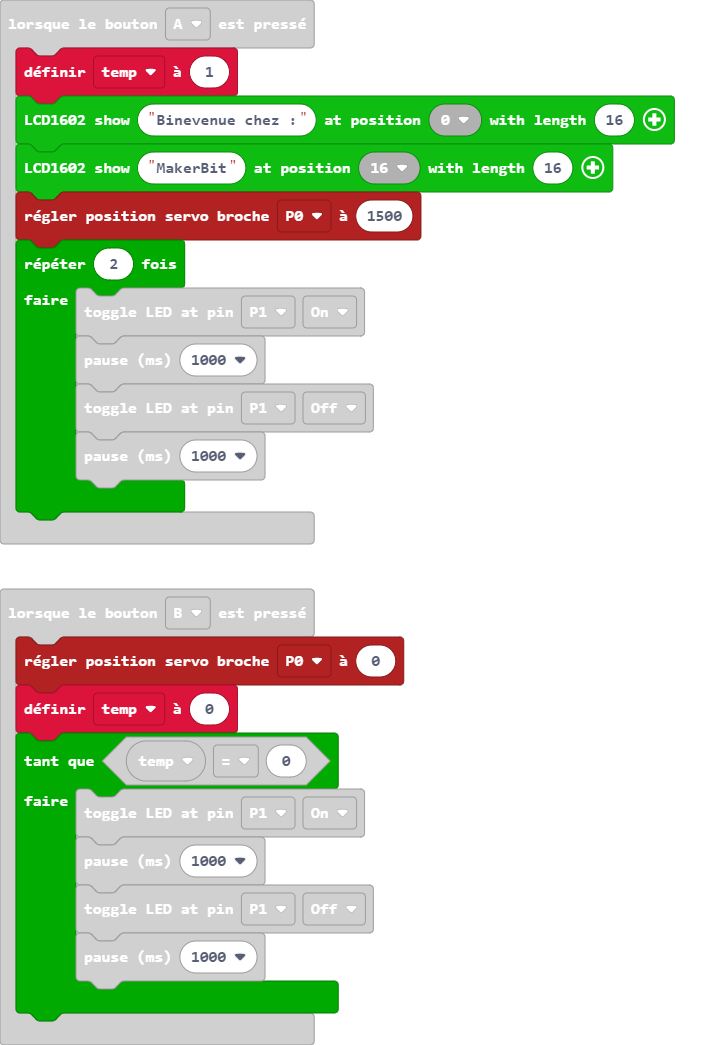
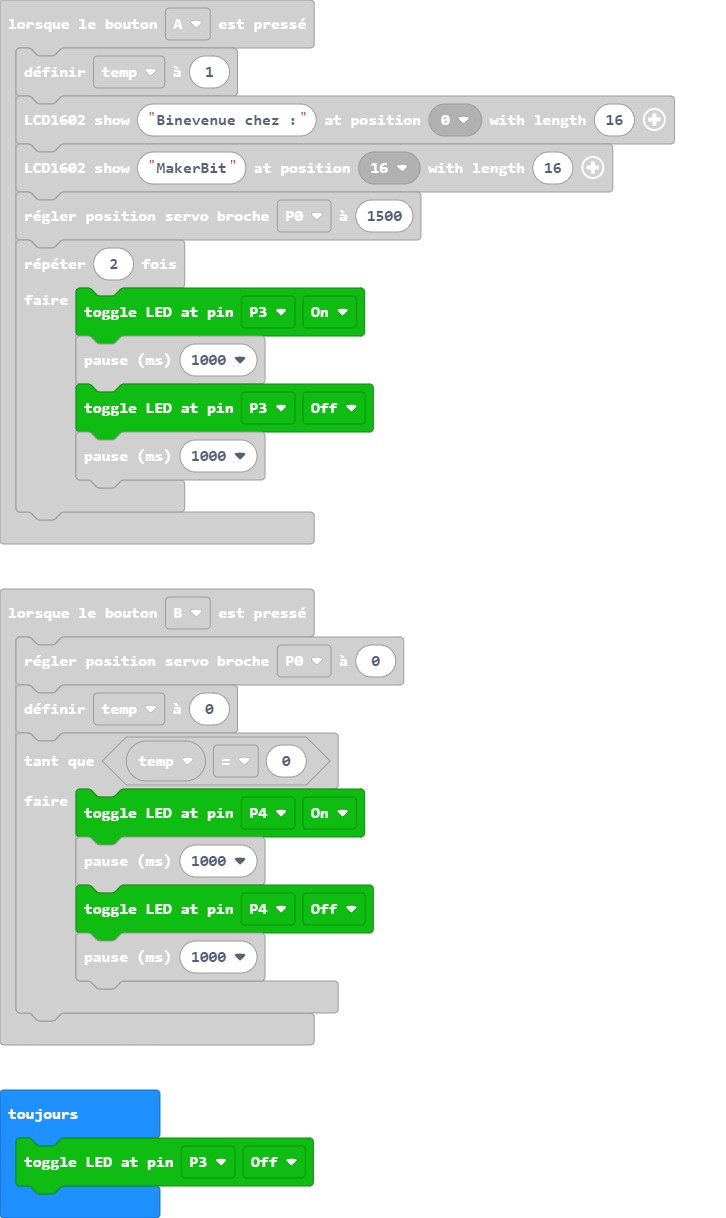
Mise à jour main.blocks, main.ts

diff --git a/main.ts b/main.ts
@@ -5,9 +5,9 @@ input.onButtonPressed(Button.A, function () {
     makerbit.showStringOnLcd1602("MakerBit", makerbit.position1602(LcdPosition1602.P16), 16)
     pins.servoWritePin(AnalogPin.P0, 1500)
     for (let index = 0; index < 2; index++) {
-        tinkercademy.LED(DigitalPin.P1, OnOff.On)
+        tinkercademy.LED(DigitalPin.P3, OnOff.On)
         basic.pause(1000)
-        tinkercademy.LED(DigitalPin.P1, OnOff.Off)
+        tinkercademy.LED(DigitalPin.P3, OnOff.Off)
         basic.pause(1000)
     }
 })
@@ -15,9 +15,12 @@ input.onButtonPressed(Button.B, function () {
     pins.servoWritePin(AnalogPin.P0, 0)
     temp = 0
     while (temp == 0) {
-        tinkercademy.LED(DigitalPin.P1, OnOff.On)
+        tinkercademy.LED(DigitalPin.P4, OnOff.On)
         basic.pause(1000)
-        tinkercademy.LED(DigitalPin.P1, OnOff.Off)
+        tinkercademy.LED(DigitalPin.P4, OnOff.Off)
         basic.pause(1000)
     }
+})
+basic.forever(function () {
+    tinkercademy.LED(DigitalPin.P3, OnOff.Off)
 })
